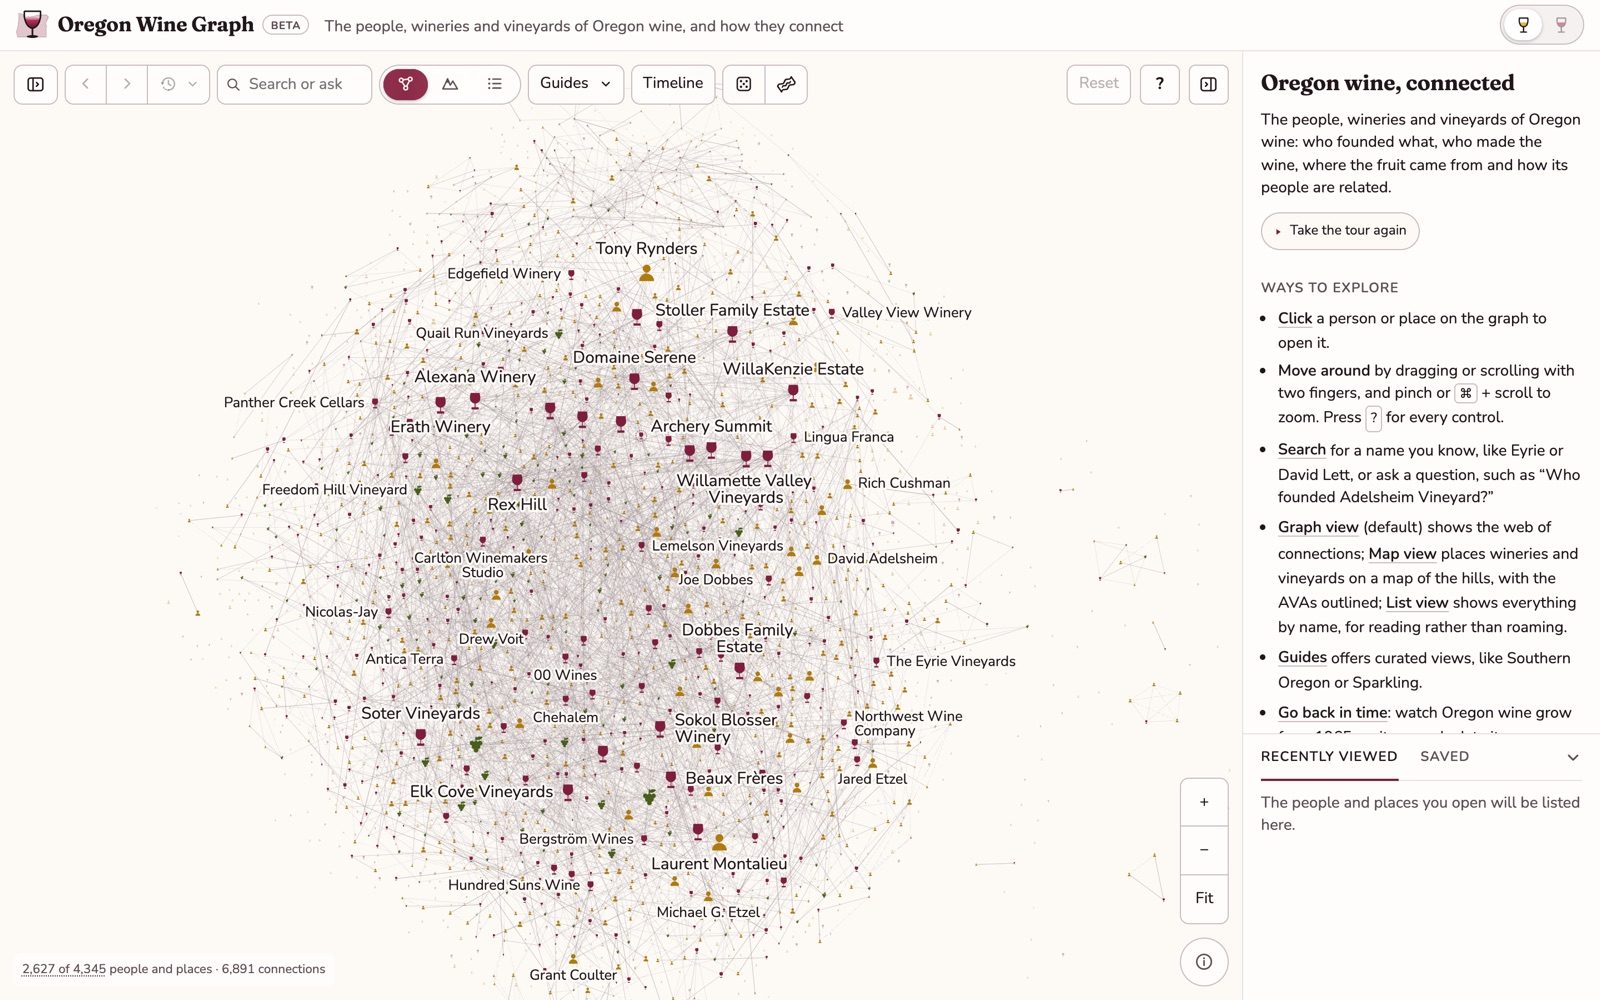
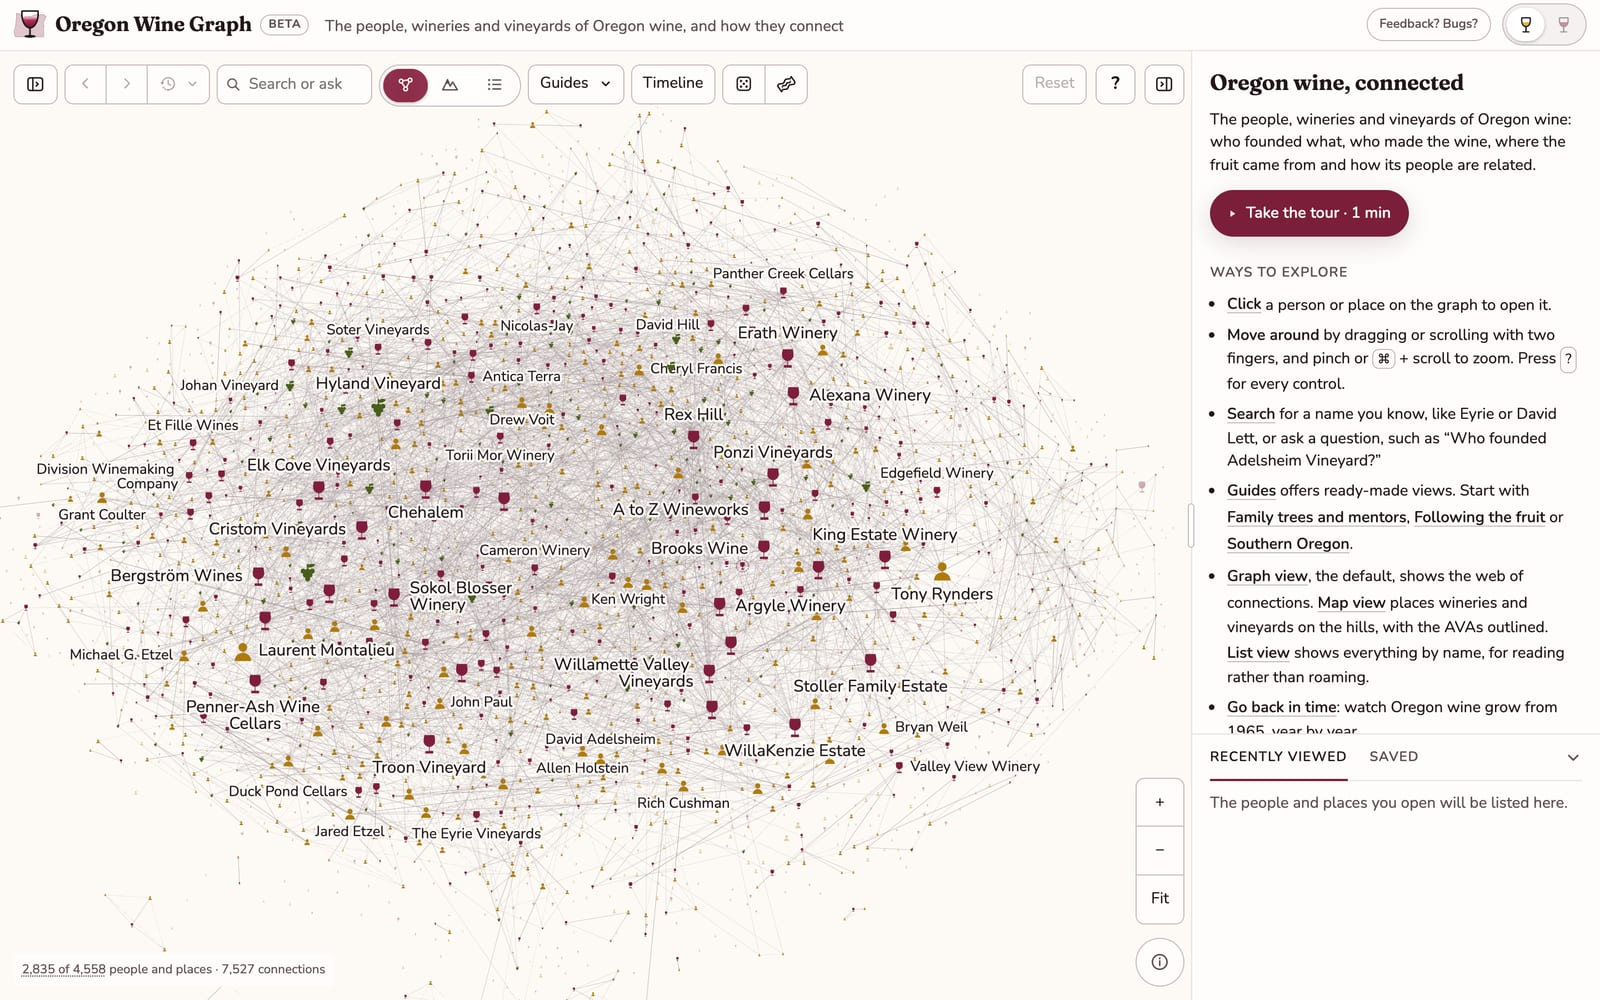
v1.100: guides, Keep exploring and return visits
The changelog entry for v1.100 (17 November 2026). The README brought up to v1.100: counts as of 17 November (5,042 records, 14,346 connections, about 6,900 facts, nearly 600 tasting rooms, about 60,000 citations), the card's visiting details and Book, Keep exploring, a Guides section with its own screenshot, and Changes and Cite this record; new screenshots of the graph, The Eyrie Vineyards' card, and Domaine Serene on a phone (graph and map). METHODOLOGY gains "Visiting details": where hours, bookings and fees come from, how they're checked, and why fewer are verified.

diff --git a/README.md b/README.md
@@ -16,9 +16,17 @@ The site's own code and data pipeline are not published here.
 
 ### The graph
 
-Every person, winery, vineyard, AVA, organization and event is a point, and every relationship between them is a line. Open one to see its story, its connections and the sources for each. A winery's card also gives its tasting rooms with directions, its website and phone, and a summary of the wines it makes, read from its federal label approvals.
+Every person, winery, vineyard, AVA, organization and event is a point, and every relationship between them is a line. Open one to see its story, its connections and the sources for each. A winery's card also says whether it's open today, with its hours, how bookings work and what a tasting costs, with a **Book** button where the winery takes bookings online. It also gives directions to each tasting room, the winery's website and phone, and a summary of the wines it makes, read from its federal label approvals and its own pages.
 
-![The Eyrie Vineyards open on the graph, with its connections drawn and its card beside them](screenshots/record.jpg)
+At the foot of each card, **Keep exploring** suggests up to three records to open next, each with its reason: the next in a line of mentors, another winery buying from the same vineyard, a place founded the same year nearby.
+
+![The Eyrie Vineyards open on the graph, with its connections drawn and its card beside them: open today, reservations required, a $40 tasting](screenshots/record.jpg)
+
+### Guides
+
+Nine ready-made ways in, each setting the graph or the map to tell one story: Family trees and mentors, Following the fruit, Who started what, Sparkling (Method Oregon's members), Southern Oregon, Beyond the Willamette Valley, “Library Wines” (Oregon's originals, founded or planted before 1985), “Young Vintages” (since 2015) and Through the years. Each has its own address, such as [oregonwine.app/guides/following-the-fruit](https://www.oregonwine.app/guides/following-the-fruit).
+
+![The Guides menu open over Following the fruit: wineries joined to the vineyards they buy from](screenshots/guides.jpg)
 
 ### The map
 
@@ -40,7 +48,7 @@ Name any two people or places to see the fewest steps between them, each step wi
 
 ### Through the years
 
-**Timeline** shows the graph or the map as it stood in any year. Press Play to watch Oregon wine grow from the 1960s.
+**Timeline** shows the graph or the map as it stood in any year. Press Play to watch Oregon wine grow from the 1960s, as the records date it.
 
 ![The map in 1975: the first few dozen wineries and vineyards of the northern Willamette Valley](screenshots/timeline.jpg)
 
@@ -63,25 +71,26 @@ The whole site works on a phone, with the record in a sheet under the graph or t
 
 - **A list view** for reading everything by name, by keyboard or screen reader.
 - **Saved and Recently viewed,** kept in your browser.
+- **Changes and Cite this record.** Each record lists the corrections made to it, with their dates and sources, and gives a ready-made citation to copy.
 - **Oral histories.** Hundreds of people and places link to their interview in Linfield University's Oregon Wine History Archive.
 
 Every record has its own address. For example, [oregonwine.app/the-eyrie-vineyards](https://www.oregonwine.app/the-eyrie-vineyards) opens straight to The Eyrie Vineyards.
 
 ## What's in it
 
-As of 10 November 2026 (version 1.94):
+As of 17 November 2026 (version 1.100):
 
 | | Records |
 |---|---|
-| People | 2,477 |
-| Wineries | 1,167 |
-| Vineyards | 700 |
-| Organizations | 424 |
+| People | 2,625 |
+| Wineries | 1,193 |
+| Vineyards | 740 |
+| Organizations | 437 |
 | AVAs | 25 |
-| Events | 17 |
-| **Connections** | **13,609** |
+| Events | 22 |
+| **Connections** | **14,346** |
 
-Nearly nine in ten of these records are verified against their sources; [How it's made](METHODOLOGY.md) explains how.
+Alongside them are about 6,900 facts (the grapes a winery makes or a vineyard grows, wine styles, sizes, farming) and visiting details for nearly 600 tasting rooms. Every one cites its sources, about 60,000 citations to 20,000 pages on nearly 1,200 sites, and nearly nine in ten are verified against them; [How it's made](METHODOLOGY.md) explains how.
 
 Coverage is strongest for the northern Willamette Valley, where Oregon's modern wine industry began and where most published history concentrates. The Walla Walla Valley and the Rocks District, which share Oregon's border, are included with their people and places. Southern Oregon and the Columbia Gorge are thinner.
 

diff --git a/CHANGELOG.md b/CHANGELOG.md
@@ -2,6 +2,18 @@
 
 Every release of [oregonwine.app](https://www.oregonwine.app), newest first, in the words of the site's own "What's new". Versions before 1.0 were not numbered; they are summarised by day at the end.
 
+## 1.100 · 17 November 2026
+
+**Guides, Keep exploring and return visits**
+
+- Guides are back: nine ready-made tours of Oregon wine, from family trees and mentors to Southern Oregon, from the Guides menu or the start panel
+- “Young Vintages” and “Library Wines”, now in quotes as the puns they are, keep to Oregon's own wineries, vineyards and people, and the Guides button is filled while a guide is showing
+- Each card ends with Keep exploring: up to three records to open next, each with the reason it's worth a look, such as the next in a line of mentors or another winery sharing the same vineyard
+- Hours and visiting details for about 20 more tasting rooms in the north Willamette Valley, among them Argyle, Chehalem, Lemelson, The Eyrie Vineyards, Antica Terra, ROCO and Montinore
+- Grapes and fruit sources for Gramercy Cellars and Rôtie Cellars, and the Yakima Valley placed within the Columbia Valley
+- The visit counter now notes whether a reader has been here before, keeping only the date of the last visit in the browser and never sending it; readers in Europe are asked first. About's Privacy section explains it
+- The page loads a little lighter: the graph's saved arrangement now arrives with its data rather than with the app
+
 ## 1.99 · 14 November 2026
 
 **Visiting details on every winery, a tidier card, and change history**

diff --git a/METHODOLOGY.md b/METHODOLOGY.md
@@ -115,6 +115,12 @@ Outlines of the land under vine come from OpenStreetMap. An outline is matched t
 
 AVA boundaries and the dates each was recognised come from the UC Davis Library's public-domain AVA maps.
 
+## Visiting details
+
+A tasting room's hours, how it's booked (walk-ins welcome, reservations recommended or required, by appointment only), what a tasting costs and its booking page come first from the winery's own site and booking page, then from the Oregon Wine Board's directory. Each detail is checked against the page it cites, as any record is. A card shows "not yet checked" beside details the check hasn't confirmed, and names the directory and its year where a detail comes from there. "Open today" is worked out from the hours for the reader's own date.
+
+These are the hardest details to verify: many winery sites load their hours with JavaScript or turn away automated reading, so fewer of them are verified than of anything else, and some are confirmed by a person reading the site. Hours change, so check with the winery before you drive.
+
 ## Rules we follow
 
 - **Nothing is guessed.** If no source gives a year, the record has no year. Hedged statements ("I think", "reportedly") don't become records.
